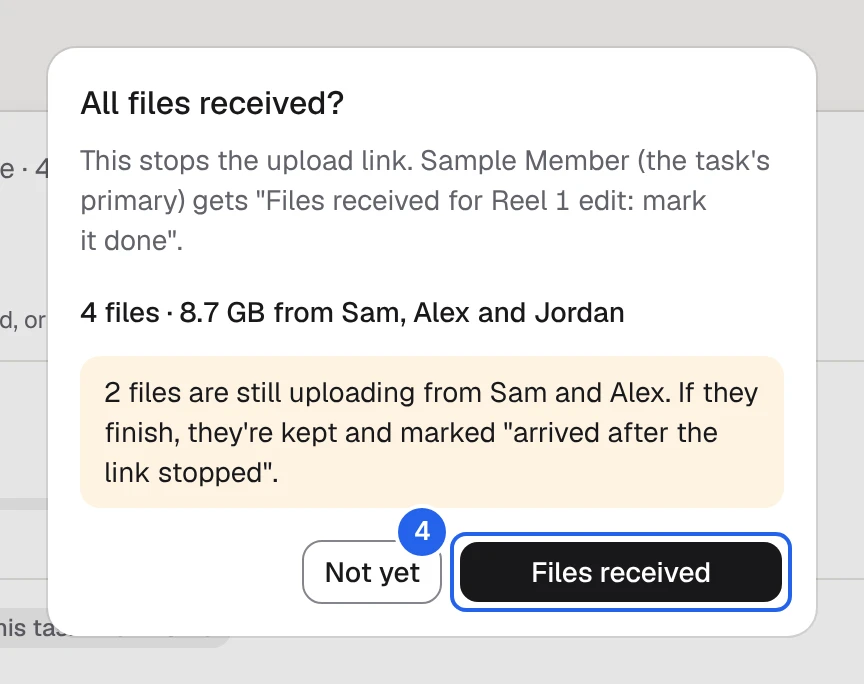
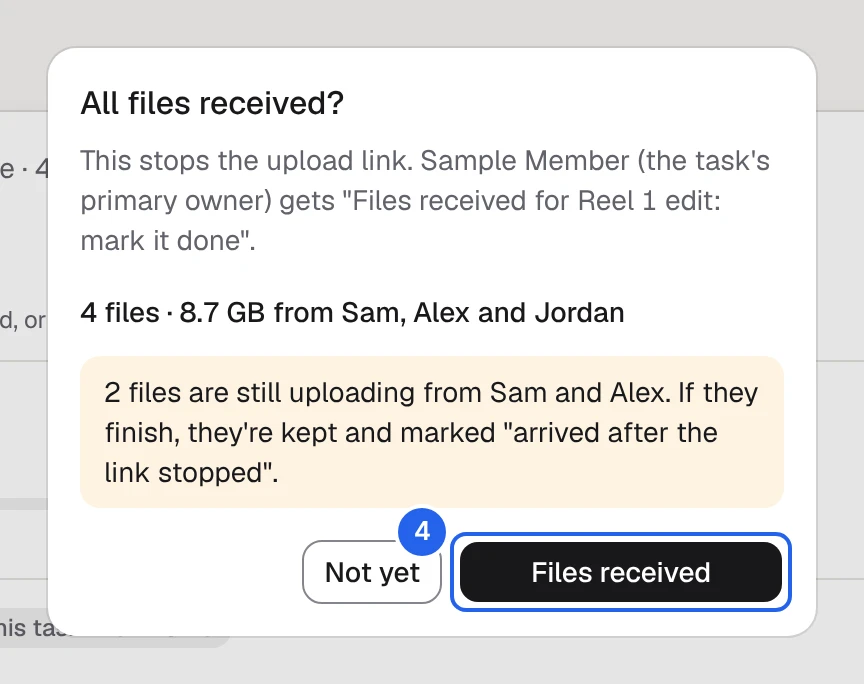
v4.5: the Owner's upload pictures, the smoke script's /upload checks, release notes
- Guide: owner/upload-get, -card and -received made in the daytime window and back on the
  owner-upload-link steps; the Admin's two re-taken (the card's wording and colour changed today).
- scripts/smoke-deploy.sh (advisor, read-only GETs only): GET /upload 200 with exactly one CSP of
  its own, GET /api/upload/resolve 405. This touches the production smoke script.
- RELEASE-NOTES: v4.5, shipping in the combined release after v4.5 (owner decision, 26 Nov).
- ARCHITECTURE §18.3: the smoke script's new check.

Claude-Session: https://claude.ai/code/session_01R4rbGDnSdkJEG53XNkkE9D

Changed region(s): [[0.1875, 0.2763, 0.8438, 0.307], [0.0938, 0.3377, 0.2812, 0.3684]]

diff --git a/src/modules/guide/domain/content/owner.ts b/src/modules/guide/domain/content/owner.ts
@@ -633,10 +633,19 @@ export const OWNER_GUIDE: Guide = {
               "Every task's Work view has an Uploads card for you (and for the task's Admins). Make a link there and send it to a freelancer or camera operator: they open it, type their name and send files straight into the task's folder in the studio's Google Drive, with no login. The files never pass through MaxOff. The studio's Drive must be connected first (Settings, then Google Drive).",
             ),
             steps(
-              "Open the task. In Work, tap Get upload link on the Uploads card.",
+              {
+                text: "Open the task. In Work, tap Get upload link (highlighted) on the Uploads card.",
+                shot: "owner/upload-get",
+              },
               "Tap Copy link and send it to whoever has the files.",
-              "Watch the card: one row per person, with their files, data sent and last activity. Tap a row to see that person's files, their device, and the IP address they sent from (only you see the IP).",
-              "When everything is in, check the list and the Drive folder (Open the folder in Drive), then tap All files received and confirm.",
+              {
+                text: "Watch the card: one row per person, with their files, data sent and last activity. Tap a row (highlighted) to see that person's files, their device, and the IP address they sent from (only you see the IP).",
+                shot: "owner/upload-card",
+              },
+              {
+                text: "When everything is in, check the list and the Drive folder (Open the folder in Drive), then tap All files received and confirm (highlighted).",
+                shot: "owner/upload-received",
+              },
             ),
             next(
               "All files received stops the link. On your own task it also marks it Done; on a freelancer's task you coordinate, Done for them; otherwise the task's primary owner is told \"Files received: mark it done\".",

diff --git a/src/modules/guide/domain/shots.generated.ts b/src/modules/guide/domain/shots.generated.ts
@@ -344,7 +344,7 @@ export const GUIDE_SHOTS: Readonly<
   "admin/upload-get": {
     src: "/guide/admin/upload-get.webp",
     width: 848,
-    height: 176,
+    height: 196,
     alt: "A task's Uploads card before any link, with Get upload link highlighted.",
   },
   "admin/upload-card": {
@@ -628,6 +628,24 @@ export const GUIDE_SHOTS: Readonly<
     width: 576,
     height: 471,
     alt: "The Resume sheet listing a deliverable that needs a new date and one from an ended month with its choices, highlighted.",
+  },
+  "owner/upload-get": {
+    src: "/guide/owner/upload-get.webp",
+    width: 848,
+    height: 196,
+    alt: "A task's Uploads card before any link, with Get upload link highlighted.",
+  },
+  "owner/upload-card": {
+    src: "/guide/owner/upload-card.webp",
+    width: 870,
+    height: 517,
+    alt: "The Uploads card with three people sending files; Alex's row, marked Stuck, is highlighted.",
+  },
+  "owner/upload-received": {
+    src: "/guide/owner/upload-received.webp",
+    width: 432,
+    height: 342,
+    alt: "The All files received sheet: the files and people, a file still uploading, and its button highlighted.",
   },
   "owner/send-back": {
     src: "/guide/owner/send-back.webp",

diff --git a/docs/ARCHITECTURE.md b/docs/ARCHITECTURE.md
@@ -508,7 +508,7 @@ The goal is **speed per push**, not minutes (the repo is public, so Actions minu
 **Query strings carry ids, never values.** Workers Logs (`observability.enabled` in `wrangler.jsonc`) record every request URL including its query string, and so would any proxy. Filters, search text and amounts travel in the request body or in server-side state, never in the URL. `console.warn` / `console.error` land in Workers Logs too, so the same scrubbing rule applies to what the app logs.
 
 ### 18.3 Security headers
-`next.config.ts` (`headers()`, `globalHeaderRules`) puts the list from `core/http/response-headers.ts` on every rendered response (the CSP on every path but `/upload`, below): `X-Frame-Options: DENY` and `Content-Security-Policy: frame-ancestors 'none'` (the app is never embedded), `X-Content-Type-Options: nosniff`, `Referrer-Policy: strict-origin-when-cross-origin`, a `Permissions-Policy` that denies camera, microphone and geolocation, and HSTS for two years with subdomains. **Staging is never indexed:** builds with `NEXT_PUBLIC_APP_ENV=staging` also send `X-Robots-Tag: noindex, nofollow` and serve `/robots.txt` with `Disallow: /` (`src/app/robots.txt/route.ts`); production and local send neither, so production stays indexable-by-choice until that is decided. Static assets get their cache headers from `public/_headers`. `e2e/production.spec.ts` asserts the exact values, and the absence of the robots rules, against a real build. **A redirect the proxy answers itself carries them too** (3c.1): on the Worker a response `updateSession()` returns (no session → `/login`, `/` → the role's home) never reaches the `headers()` rule, so `core/http/response-headers.ts` `applyResponseHeaders()` sets the same list there (unit-tested in `session.test.ts`), and `worker/index.js` puts them on its own 308 from the `workers.dev` host. **Checked on the deployed Worker, not `next start`:** `scripts/smoke-deploy.sh <origin> [workers.dev origin]` (the last step of both deploy jobs, and runnable by hand) asserts `/api/health` 200 `ok` with `cache-control: no-store`, every header on the signed-out `/today` redirect, the Continue page's own headers on `GET /auth/confirm` (`no-store`, `noindex`, `no-referrer`; the GET verifies nothing, so a never-issued token is safe), and the 308 from the alias. A full CSP with script sources is deferred until the app has its final set of inline scripts (Next, next-themes); when it arrives, add it here and in that spec. **`/upload` (v4.5, plan J1)** gets its own per-request nonce CSP from the proxy (`uploadPageCsp`, which includes `frame-ancestors 'none'`), for any letter case of the path; the global CSP rule skips it (`EVERY_PATH_BUT_UPLOAD_PAGE`) because on the Worker a `headers()` CSP joins the proxy's as a second policy instead of replacing it (pen test M17). **`/api/files/<id>` (3.3)** answers with its own `Content-Security-Policy` (`default-src 'none'; style-src 'unsafe-inline'; sandbox; frame-ancestors 'none'`, `FILE_ROUTE_CSP`), set by a later `headers()` rule in `next.config.ts` because a config rule replaces a header a route handler sets.
+`next.config.ts` (`headers()`, `globalHeaderRules`) puts the list from `core/http/response-headers.ts` on every rendered response (the CSP on every path but `/upload`, below): `X-Frame-Options: DENY` and `Content-Security-Policy: frame-ancestors 'none'` (the app is never embedded), `X-Content-Type-Options: nosniff`, `Referrer-Policy: strict-origin-when-cross-origin`, a `Permissions-Policy` that denies camera, microphone and geolocation, and HSTS for two years with subdomains. **Staging is never indexed:** builds with `NEXT_PUBLIC_APP_ENV=staging` also send `X-Robots-Tag: noindex, nofollow` and serve `/robots.txt` with `Disallow: /` (`src/app/robots.txt/route.ts`); production and local send neither, so production stays indexable-by-choice until that is decided. Static assets get their cache headers from `public/_headers`. `e2e/production.spec.ts` asserts the exact values, and the absence of the robots rules, against a real build. **A redirect the proxy answers itself carries them too** (3c.1): on the Worker a response `updateSession()` returns (no session → `/login`, `/` → the role's home) never reaches the `headers()` rule, so `core/http/response-headers.ts` `applyResponseHeaders()` sets the same list there (unit-tested in `session.test.ts`), and `worker/index.js` puts them on its own 308 from the `workers.dev` host. **Checked on the deployed Worker, not `next start`:** `scripts/smoke-deploy.sh <origin> [workers.dev origin]` (the last step of both deploy jobs, and runnable by hand) asserts `/api/health` 200 `ok` with `cache-control: no-store`, every header on the signed-out `/today` redirect, the Continue page's own headers on `GET /auth/confirm` (`no-store`, `noindex`, `no-referrer`; the GET verifies nothing, so a never-issued token is safe), the 308 from the alias, and the upload page (v4.5): `GET /upload` 200 with exactly one CSP of its own, and `GET /api/upload/resolve` 405 (read-only; a token is in the `#fragment`, so no request carries one). A full CSP with script sources is deferred until the app has its final set of inline scripts (Next, next-themes); when it arrives, add it here and in that spec. **`/upload` (v4.5, plan J1)** gets its own per-request nonce CSP from the proxy (`uploadPageCsp`, which includes `frame-ancestors 'none'`), for any letter case of the path; the global CSP rule skips it (`EVERY_PATH_BUT_UPLOAD_PAGE`) because on the Worker a `headers()` CSP joins the proxy's as a second policy instead of replacing it (pen test M17). **`/api/files/<id>` (3.3)** answers with its own `Content-Security-Policy` (`default-src 'none'; style-src 'unsafe-inline'; sandbox; frame-ancestors 'none'`, `FILE_ROUTE_CSP`), set by a later `headers()` rule in `next.config.ts` because a config rule replaces a header a route handler sets.
 
 ## 19. Performance rules (owner decision 2026-09-28)
 Measured before they were written (`scripts/measure-nav.mjs`, re-runnable: server time and the database round trips per screen, first load and tab navigation, locally through a pass-through proxy and on a preview with a real account; `--flow` taps the bottom bar on a warm app, `--installed` the way the team uses it). Every screen follows them:

diff --git a/docs/RELEASE-NOTES.md b/docs/RELEASE-NOTES.md
@@ -4,6 +4,33 @@ Newest first. Each entry says what ships, what the Crew will notice, and what ha
 release. A release is a `v*` tag on a `main` commit with green CI, approved by the Owner (CLAUDE.md). Earlier
 releases (v1.0.0 to v1.3.0) are recorded in their tag messages and in `PROGRESS.md`.
 
+## v4.5: Upload link
+
+**Ships in the combined release after v4.5** (owner decision, 26 Nov 2026: one production release covering v2.0.1 to v4.5; v4.0 and v4.5 are its last parts). Branch `phase-v45`.
+
+### What the Owner and Admins will notice
+- **An Uploads card on a task's Work view.** It appears for the Owner and for the Admins who look after the task.
+  - **Get upload link** makes a private link; **Copy link** sends it to a freelancer or camera operator.
+  - They open it on a phone or laptop, type their name and send files, or whole folders, straight into the task's folder in the studio's Google Drive. There is no login, and the files never pass through MaxOff.
+- **The card shows who is sending and how far they have got.** Tap a person to see their files: done, still uploading, "Removed in Drive" if someone deleted it there, and "Check before opening" on programs and web pages.
+- **All files received** stops the link. On your own task it also completes the task. Otherwise the task's primary owner is told "Files received: mark it done".
+  - **Stop link** is in the card's ⋯ menu; a stopped card offers **Make a new link**.
+- **New notices:** someone not on the task sending files (at most five a day per link, then one summary); a file waiting for room in the studio's Drive; Google's daily upload limit reached.
+
+### What the Crew will notice
+- Nothing on their own screens. A Crew primary owner gets one new notice: "Files received for ‹task›: mark it done".
+
+### What happens on its own
+- A link stops by itself when the task is Done or cancelled.
+- MaxOff checks a file in Drive only when someone opens that uploader's list (at most once every 10 minutes).
+- Old rate-limit counters are cleared daily.
+
+### Before the tag (the Owner, in the combined release's pre-tag checklist)
+- The Cloudflare rate-limit rule on `/api/upload/*` (`docs/runbooks/cloudflare-rate-limit.md`, a second rule; on the Free plan the app's own limits stand alone).
+- Accept the leftover risks on #89 (A9/E5, B3, D, B1, S7).
+- Staging uses a test override of the space guard (S7); production ignores it.
+- **This release touches the production smoke script:** `scripts/smoke-deploy.sh` gains read-only `/upload` checks.
+
 ## v2.0: fast and settled
 
 **Released Sat 14 Nov 2026, about 12:40 IST** (tag `v2.0` on `main` 6e9f19cc, PR #143; the Owner approved the production deploy, run 43569568961: 14 migrations applied, smoke checks passed). The tag is `v2.0`, not `v2.0.0`.
